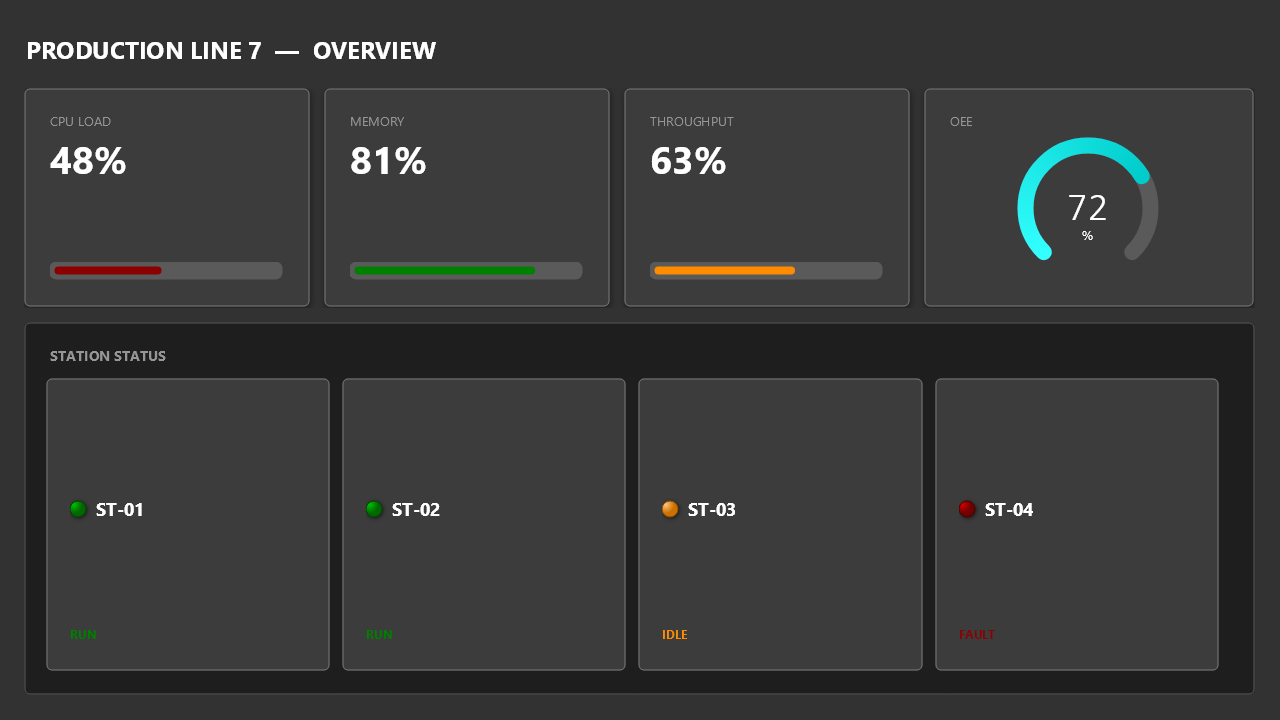
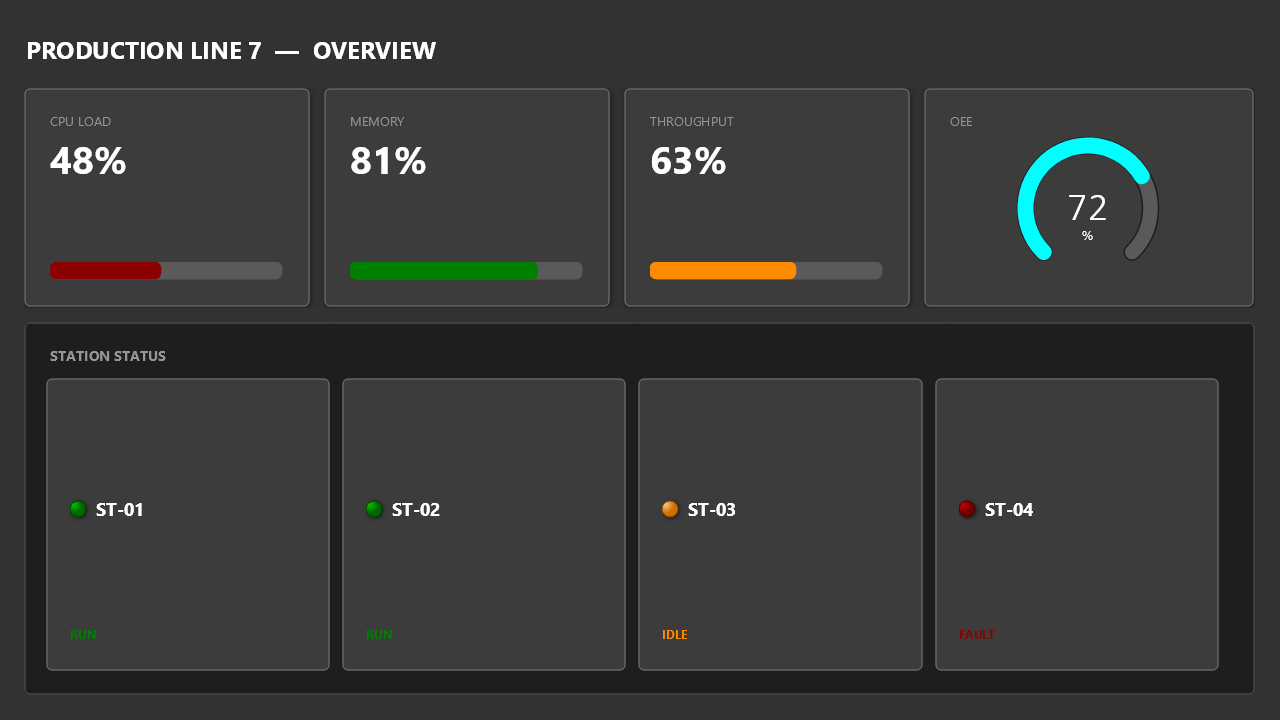
feat(datagrid): configurable border color/width + seam fixes
- Add ColumnTextColor/ColumnBorderColor/BorderColor/BorderWidth properties
- Plumb BorderWidth and border-color helpers through all cell/header draws
- Column/group headers use DrawDivider (per-edge) instead of full box
- Container fills (column/row/scroll) draw border in their own fill color
  to remove the white seam above rows and stray scrollbar-color 1px line
- Guard horizontal/vertical scrollbar boxes by scroll mode

diff --git a/Going.UI/Controls/GoDataGrid.cs b/Going.UI/Controls/GoDataGrid.cs
@@ -66,35 +66,52 @@ namespace Going.UI.Controls
         /// </summary>
         [GoProperty(PCategory.Control, 6)] public string ColumnColor { get; set; } = "Base1";
         /// <summary>
+        /// 컬럼 헤더 텍스트 색상의 테마 색상 이름을 가져오거나 설정합니다.
+        /// </summary>
+        [GoProperty(PCategory.Control, 7)] public string ColumnTextColor { get; set; } = "Fore";
+        /// <summary>
+        /// 컬럼 헤더 테두리 색상의 테마 색상 이름을 가져오거나 설정합니다. 비어 있으면 자동 계산 색상을 사용합니다.
+        /// </summary>
+        [GoProperty(PCategory.Control, 8)] public string? ColumnBorderColor { get; set; }
+        /// <summary>
+        /// 행/요약/디바이더 테두리 색상의 테마 색상 이름을 가져오거나 설정합니다. 비어 있으면 자동 계산 색상을 사용합니다.
+        /// </summary>
+        [GoProperty(PCategory.Control, 9)] public string? BorderColor { get; set; }
+        /// <summary>
         /// 선택된 행의 배경 색상 테마 이름을 가져오거나 설정합니다.
         /// </summary>
-        [GoProperty(PCategory.Control, 7)] public string SelectedRowColor { get; set; } = "Select";
+        [GoProperty(PCategory.Control, 10)] public string SelectedRowColor { get; set; } = "Select";
         /// <summary>
         /// 전체 배경 색상의 테마 색상 이름을 가져오거나 설정합니다.
         /// </summary>
-        [GoProperty(PCategory.Control, 8)] public string BoxColor { get; set; } = "Base2";
+        [GoProperty(PCategory.Control, 11)] public string BoxColor { get; set; } = "Base2";
         /// <summary>
         /// 스크롤바 색상의 테마 색상 이름을 가져오거나 설정합니다.
         /// </summary>
-        [GoProperty(PCategory.Control, 9)] public string ScrollBarColor { get; set; } = "Base1";
+        [GoProperty(PCategory.Control, 12)] public string ScrollBarColor { get; set; } = "Base1";
+
+        /// <summary>
+        /// 테두리 및 디바이더 선 굵기를 가져오거나 설정합니다.
+        /// </summary>
+        [GoProperty(PCategory.Control, 13)] public float BorderWidth { get; set; } = 1F;
 
         /// <summary>
         /// 행 높이(픽셀)를 가져오거나 설정합니다.
         /// </summary>
-        [GoProperty(PCategory.Control, 10)] public float RowHeight { get; set; } = 30F;
+        [GoProperty(PCategory.Control, 14)] public float RowHeight { get; set; } = 30F;
         /// <summary>
         /// 컬럼 헤더 높이(픽셀)를 가져오거나 설정합니다.
         /// </summary>
-        [GoProperty(PCategory.Control, 11)] public float ColumnHeight { get; set; } = 30F;
+        [GoProperty(PCategory.Control, 15)] public float ColumnHeight { get; set; } = 30F;
 
         /// <summary>
         /// 스크롤 모드를 가져오거나 설정합니다.
         /// </summary>
-        [GoProperty(PCategory.Control, 12)] public ScrollMode ScrollMode { get; set; } = ScrollMode.Vertical;
+        [GoProperty(PCategory.Control, 16)] public ScrollMode ScrollMode { get; set; } = ScrollMode.Vertical;
         /// <summary>
         /// 행 선택 모드를 가져오거나 설정합니다.
         /// </summary>
-        [GoProperty(PCategory.Control, 13)] public GoDataGridSelectionMode SelectionMode { get; set; } = GoDataGridSelectionMode.Single;
+        [GoProperty(PCategory.Control, 17)] public GoDataGridSelectionMode SelectionMode { get; set; } = GoDataGridSelectionMode.Single;
 
         /// <summary>
         /// 컬럼 그룹 컬렉션을 가져옵니다.
@@ -104,7 +121,7 @@ namespace Going.UI.Controls
         /// <summary>
         /// 컬럼 컬렉션을 가져옵니다.
         /// </summary>
-        [GoProperty(PCategory.Control, 14)]
+        [GoProperty(PCategory.Control, 18)]
         [GoChildWrappers]
         [JsonObjectCreationHandling(JsonObjectCreationHandling.Populate)]
         public ObservableList<GoDataGridColumn> Columns { get; private set; } = [];
@@ -216,6 +233,14 @@ namespace Going.UI.Controls
         public event Func<GoDataGridCell, bool>? GetComboDropDownVisible;
         #endregion
 
+        #region Internal
+        internal SKColor GetBorderColor(GoTheme thm, SKColor autoColor) =>
+            string.IsNullOrWhiteSpace(BorderColor) ? autoColor : thm.ToColor(BorderColor);
+
+        internal SKColor GetColumnBorderColor(GoTheme thm, SKColor autoColor) =>
+            string.IsNullOrWhiteSpace(ColumnBorderColor) ? autoColor : thm.ToColor(ColumnBorderColor);
+        #endregion
+
         #region Constructor
         /// <summary><see cref="GoDataGrid"/> 클래스의 새 인스턴스를 초기화합니다.</summary>
         public GoDataGrid()
@@ -298,7 +323,7 @@ namespace Going.UI.Controls
                     using (new SKAutoCanvasRestore(canvas))
                     {
 
-                        Util.DrawBox(canvas, rtColumn, cCol, GoRoundType.Rect, thm.Corner);
+                        Util.DrawBox(canvas, rtColumn, cCol, cCol, GoRoundType.Rect, thm.Corner, true, BorderWidth);
                         using (new SKAutoCanvasRestore(canvas))
                         {
                             canvas.ClipRect(new SKRect(cl, rtColumn.Top, cr, rtColumn.Bottom));
@@ -316,8 +341,8 @@ namespace Going.UI.Controls
                             var rtChk = MathTool.MakeRectangle(Util.FromRect(rtColumn.Left, rtColumn.Top, 30, rtColumn.Height), new SKSize(20, 20));
 
                             var cF = cCol.BrightnessTransmit(CheckBoxBright * br);
-                            var cB = cCol.BrightnessTransmit(BorderBright * br);
-                            Util.DrawBox(canvas, rtChk, cF, cB, GoRoundType.Rect, thm.Corner);
+                            var cB = GetColumnBorderColor(thm, cCol.BrightnessTransmit(BorderBright * br));
+                            Util.DrawBox(canvas, rtChk, cF, cB, GoRoundType.Rect, thm.Corner, true, BorderWidth);
                             if (val) Util.DrawIcon(canvas, "fa-check", 12, rtChk, cText);
                         }
 
@@ -346,7 +371,7 @@ namespace Going.UI.Controls
                         }
 
                         var bsel = SelectionMode == GoDataGridSelectionMode.Selector;
-                        p.IsStroke = true; p.StrokeWidth = 1;
+                        p.IsStroke = true; p.StrokeWidth = BorderWidth;
                         p.PathEffect = pe;
                         foreach (var r in SummaryRows)
                         {
@@ -360,7 +385,7 @@ namespace Going.UI.Controls
 
                                 var cF = cSum;
                                 var cV = cF.BrightnessTransmit(r.RowIndex % 2 == 0 ? 0.05F : -0.05F);
-                                var cB = cV.BrightnessTransmit(BorderBright * br);
+                                var cB = GetBorderColor(thm, cV.BrightnessTransmit(BorderBright * br));
 
                                 var rx = Convert.ToInt32(rtSel.Right) + 0.5F;
                                 p.Color = cB;
@@ -373,12 +398,17 @@ namespace Going.UI.Controls
                 }
                 #endregion
                 #region Border
-                Util.DrawBox(canvas, rtColumn, SKColors.Transparent, cCol, GoRoundType.Rect, thm.Corner);
-                if (SummaryRows.Count > 0) Util.DrawBox(canvas, rtSummary, SKColors.Transparent, cSum, GoRoundType.Rect, thm.Corner);
+                p.IsStroke = true;
+                p.StrokeWidth = BorderWidth;
+                p.PathEffect = pe;
+                p.Color = GetColumnBorderColor(thm, cCol);
+                canvas.DrawLine(rtColumn.Left, Convert.ToInt32(rtColumn.Bottom) + 0.5F, rtColumn.Right, Convert.ToInt32(rtColumn.Bottom) + 0.5F, p);
+                p.PathEffect = null;
+                if (SummaryRows.Count > 0) Util.DrawBox(canvas, rtSummary, SKColors.Transparent, GetBorderColor(thm, cSum), GoRoundType.Rect, thm.Corner, true, BorderWidth);
                 #endregion
                 #region Rows
                 {
-                    Util.DrawBox(canvas, rtRow, cBox, cRow, GoRoundType.Rect, thm.Corner);
+                    Util.DrawBox(canvas, rtRow, cBox, cBox, GoRoundType.Rect, thm.Corner, true, BorderWidth);
 
                     using (new SKAutoCanvasRestore(canvas))
                     {
@@ -405,7 +435,7 @@ namespace Going.UI.Controls
                             }
 
                             var bsel = SelectionMode == GoDataGridSelectionMode.Selector;
-                            p.IsStroke = true; p.StrokeWidth = 1;
+                            p.IsStroke = true; p.StrokeWidth = BorderWidth;
                             p.PathEffect = pe;
                             for (int i = si; i <= ei; i++)
                             {
@@ -421,10 +451,10 @@ namespace Going.UI.Controls
 
                                     var cF = r.Selected ? cSel : cRow;
                                     var cV = cF.BrightnessTransmit(r.RowIndex % 2 == 0 ? 0.05F : -0.05F);
-                                    var cB = cV.BrightnessTransmit(BorderBright * br);
+                                    var cB = GetBorderColor(thm, cV.BrightnessTransmit(BorderBright * br));
 
                                     Util.DrawBox(canvas, rtSel, cV, GoRoundType.Rect, thm.Corner);
-                                    Util.DrawBox(canvas, rtChk, cV.BrightnessTransmit(InputBright * br), cB, GoRoundType.Rect, thm.Corner);
+                                    Util.DrawBox(canvas, rtChk, cV.BrightnessTransmit(InputBright * br), cB, GoRoundType.Rect, thm.Corner, true, BorderWidth);
                                     if (r.Selected) Util.DrawIcon(canvas, "fa-check", 12, rtChk, cText);
 
                                     var rx = Convert.ToInt32(rtSel.Right) + 0.5F;
@@ -440,7 +470,8 @@ namespace Going.UI.Controls
                 }
                 #endregion
                 #region Scroll
-                Util.DrawBox(canvas, rtScrollV, cVScroll, GoRoundType.Rect, thm.Corner);
+                if (usv) Util.DrawBox(canvas, rtScrollV, cVScroll, GoRoundType.Rect, thm.Corner);
+                if (ush) Util.DrawBox(canvas, rtScrollH, cVScroll, GoRoundType.Rect, thm.Corner);
                 #endregion
 
                 hscroll.Draw(canvas, thm, rtScrollH);

diff --git a/Going.UI/Datas/GoDataGridItems.cs b/Going.UI/Datas/GoDataGridItems.cs
@@ -148,12 +148,12 @@ namespace Going.UI.Datas
                 var cSel = thm.ToColor(SelectedCellBackColor ?? Grid.SelectedRowColor);
                 var cF = Row.Selected ? cSel : cBack;
                 var cV = cF.BrightnessTransmit(RowIndex % 2 == 0 ? 0.05F : -0.05F);
-                var cB = cV.BrightnessTransmit(thm.Dark ? GoDataGrid.BorderBright : -GoDataGrid.BorderBright);
+                var cB = Grid.GetBorderColor(thm, cV.BrightnessTransmit(thm.Dark ? GoDataGrid.BorderBright : -GoDataGrid.BorderBright));
                 
                 Util.DrawBox(canvas, Bounds, cV, GoRoundType.Rect, thm.Corner);
 
                 using var pe = SKPathEffect.CreateDash([2, 2,], 3);
-                using var p = new SKPaint { IsAntialias = true, IsStroke = true, StrokeWidth = 1, Color = cB, PathEffect = pe };
+                using var p = new SKPaint { IsAntialias = true, IsStroke = true, StrokeWidth = Grid.BorderWidth, Color = cB, PathEffect = pe };
                 var l = Convert.ToInt32(Bounds.Left) + 0.5F;
                 var r = Convert.ToInt32(Bounds.Right) + 0.5F;
                 var ci = ColumnIndex;
@@ -309,24 +309,29 @@ namespace Going.UI.Datas
         {
             if (Grid != null)
             {
-                var cText = thm.ToColor(TextColor ?? Grid.TextColor);
+                var cText = thm.ToColor(TextColor ?? Grid.ColumnTextColor);
                 var cBack = thm.ToColor(Grid.ColumnColor);
-                var cBorder = cBack.BrightnessTransmit(thm.Dark ? GoDataGrid.BorderBright : -GoDataGrid.BorderBright);
+                var cBorder = Grid.GetColumnBorderColor(thm, cBack.BrightnessTransmit(thm.Dark ? GoDataGrid.BorderBright : -GoDataGrid.BorderBright));
                 var cIF = cBack.BrightnessTransmit(thm.Dark ? GoDataGrid.InputBright : -GoDataGrid.InputBright);
                 var cIB = GoInputEventer.Current.InputControl == Grid && Grid.InputObject == this ? thm.Highlight : cBorder;
                 var isCol = Grid.Columns.Contains(this);
+                var isGroup = Grid.ColumnGroups.Contains(this);
+                var dividerIndex = isCol ? Grid.Columns.IndexOf(this) : isGroup ? Grid.ColumnGroups.IndexOf(this) : -1;
+                var dividerCount = isCol ? Grid.Columns.Count : isGroup ? Grid.ColumnGroups.Count : 0;
                 var (rtText, rtSort) = bounds();
 
-                Util.DrawBox(canvas, Bounds, SKColors.Transparent, cBorder, GoRoundType.Rect, thm.Corner);
+                using var pe = SKPathEffect.CreateDash([2, 2,], 3);
+                using var p = new SKPaint { IsAntialias = true, IsStroke = true, StrokeWidth = Grid.BorderWidth, Color = cBorder, PathEffect = pe };
+                DrawDivider(canvas, Bounds, p, dividerIndex > 0, dividerIndex >= 0 && dividerIndex < dividerCount - 1);
                 Util.DrawText(canvas, HeaderText, Grid.FontName, Grid.FontStyle, Grid.FontSize, rtText, cText);
 
                 if (isCol)
                 {
-                    if (FilterBounds.Height > 0) Util.DrawBox(canvas, FilterBounds, SKColors.Transparent, cBorder, GoRoundType.Rect, thm.Corner);
+                    if (FilterBounds.Height > 0) DrawDivider(canvas, FilterBounds, p, dividerIndex > 0, dividerIndex >= 0 && dividerIndex < dividerCount - 1);
                     if (UseFilter)
                     {
                         var rt = FilterBounds; rt.Inflate(InputInflateW, InputInflateH);
-                        Util.DrawBox(canvas, rt, cIF, cIB, GoRoundType.Rect, thm.Corner);
+                        Util.DrawBox(canvas, rt, cIF, cIB, GoRoundType.Rect, thm.Corner, true, Grid.BorderWidth);
                         Util.DrawText(canvas, FilterText, Grid.FontName, Grid.FontStyle, Grid.FontSize, rt, cText);
                     }
 
@@ -341,6 +346,14 @@ namespace Going.UI.Datas
 
                 OnDraw(canvas);
             }
+        }
+
+        void DrawDivider(SKCanvas canvas, SKRect bounds, SKPaint p, bool left, bool right)
+        {
+            var l = Convert.ToInt32(bounds.Left) + 0.5F;
+            var r = Convert.ToInt32(bounds.Right) + 0.5F;
+            if (left) canvas.DrawLine(l, bounds.Top, l, bounds.Bottom, p);
+            if (right) canvas.DrawLine(r, bounds.Top, r, bounds.Bottom, p);
         }
         #endregion
 
@@ -540,11 +553,11 @@ namespace Going.UI.Datas
                 var cBack = thm.ToColor(CellBackColor ?? Grid.SummaryRowColor);
                 var cF = cBack;
                 var cV = cF;
-                var cB = cV.BrightnessTransmit(thm.Dark ? GoDataGrid.BorderBright : -GoDataGrid.BorderBright);
+                var cB = Grid.GetBorderColor(thm, cV.BrightnessTransmit(thm.Dark ? GoDataGrid.BorderBright : -GoDataGrid.BorderBright));
 
                 Util.DrawBox(canvas, Bounds, cV, GoRoundType.Rect, thm.Corner);
 
-                using var p = new SKPaint { IsAntialias = true, IsStroke = true, StrokeWidth = 1, Color = cB };
+                using var p = new SKPaint { IsAntialias = true, IsStroke = true, StrokeWidth = Grid.BorderWidth, Color = cB };
                 var l = Convert.ToInt32(Bounds.Left) + 0.5F;
                 var r = Convert.ToInt32(Bounds.Right) + 0.5F;
                 canvas.DrawLine(l, Bounds.Top, l, Bounds.Bottom, p);
@@ -1096,11 +1109,11 @@ namespace Going.UI.Datas
             var cSel = thm.ToColor(SelectedCellBackColor ?? Grid.SelectedRowColor);
             var cF = Row.Selected ? cSel : cRow;
             var cV = cF.BrightnessTransmit(Row.RowIndex % 2 == 0 ? 0.05F : -0.05F);
-            var cB = cV.BrightnessTransmit(GoDataGrid.BorderBright * br);
+            var cB = Grid.GetBorderColor(thm, cV.BrightnessTransmit(GoDataGrid.BorderBright * br));
 
             var rtChk = MathTool.MakeRectangle(Bounds, new SKSize(20, 20));
 
-            Util.DrawBox(canvas, rtChk, cV.BrightnessTransmit(GoDataGrid.InputBright * br), cB, GoRoundType.Rect, thm.Corner);
+            Util.DrawBox(canvas, rtChk, cV.BrightnessTransmit(GoDataGrid.InputBright * br), cB, GoRoundType.Rect, thm.Corner, true, Grid.BorderWidth);
             if (Value is bool v && v) Util.DrawIcon(canvas, "fa-check", 12, rtChk, cText);
         }
         #endregion
@@ -1179,10 +1192,10 @@ namespace Going.UI.Datas
             var cSel = thm.ToColor(SelectedCellBackColor ?? Grid.SelectedRowColor);
             var cF = Row.Selected ? cSel : cRow;
             var cV = cF.BrightnessTransmit(Row.RowIndex % 2 == 0 ? 0.05F : -0.05F);
-            var cB = GoInputEventer.Current.InputControl == Grid && Grid.InputObject == this ? thm.Highlight : cV.BrightnessTransmit(GoDataGrid.BorderBright * br);
+            var cB = GoInputEventer.Current.InputControl == Grid && Grid.InputObject == this ? thm.Highlight : Grid.GetBorderColor(thm, cV.BrightnessTransmit(GoDataGrid.BorderBright * br));
 
             var rt = Bounds; rt.Inflate(InputInflateW, InputInflateH);
-            Util.DrawBox(canvas, rt, cV.BrightnessTransmit(GoDataGrid.InputBright * br), cB, GoRoundType.Rect, thm.Corner);
+            Util.DrawBox(canvas, rt, cV.BrightnessTransmit(GoDataGrid.InputBright * br), cB, GoRoundType.Rect, thm.Corner, true, Grid.BorderWidth);
 
             if (!(Grid._InputModeInvisibleText_ && Grid.InputObject == this))
             {
@@ -1269,12 +1282,12 @@ namespace Going.UI.Datas
             var cSel = thm.ToColor(SelectedCellBackColor ?? Grid.SelectedRowColor);
             var cF = Row.Selected ? cSel : cRow;
             var cV = cF.BrightnessTransmit(Row.RowIndex % 2 == 0 ? 0.05F : -0.05F);
-            var cB = GoInputEventer.Current.InputControl == Grid && Grid.InputObject == this ? thm.Highlight : cV.BrightnessTransmit(GoDataGrid.BorderBright * br);
+            var cB = GoInputEventer.Current.InputControl == Grid && Grid.InputObject == this ? thm.Highlight : Grid.GetBorderColor(thm, cV.BrightnessTransmit(GoDataGrid.BorderBright * br));
 
             var rt = Bounds; rt.Inflate(InputInflateW, InputInflateH);
             if (Convert.ToInt32(rt.Right) + 0.5F == Bounds.Right) rt.Right -= 1;
 
-            Util.DrawBox(canvas, rt, cV.BrightnessTransmit(GoDataGrid.InputBright * br), cB, GoRoundType.Rect, thm.Corner);
+            Util.DrawBox(canvas, rt, cV.BrightnessTransmit(GoDataGrid.InputBright * br), cB, GoRoundType.Rect, thm.Corner, true, Grid.BorderWidth);
 
             if (!(Grid._InputModeInvisibleText_ && Grid.InputObject == this))
             {
@@ -1361,13 +1374,13 @@ namespace Going.UI.Datas
             var cSel = thm.ToColor(SelectedCellBackColor ?? Grid.SelectedRowColor);
             var cF = Row.Selected ? cSel : cRow;
             var cV = cF.BrightnessTransmit(Row.RowIndex % 2 == 0 ? 0.05F : -0.05F);
-            var cB = GoInputEventer.Current.InputControl == Grid && Grid.InputObject == this ? thm.Highlight : cV.BrightnessTransmit(GoDataGrid.BorderBright * br);
+            var cB = GoInputEventer.Current.InputControl == Grid && Grid.InputObject == this ? thm.Highlight : Grid.GetBorderColor(thm, cV.BrightnessTransmit(GoDataGrid.BorderBright * br));
 
             var rt = Bounds; rt.Inflate(InputInflateW, InputInflateH);
             var rts = Util.Columns(rt, ["50%", "50%"]);
             var rtOff = rts[0];
             var rtOn = rts[1];
-            Util.DrawBox(canvas, rt, cV.BrightnessTransmit(GoDataGrid.InputBright * br), cB, GoRoundType.Rect, thm.Corner);
+            Util.DrawBox(canvas, rt, cV.BrightnessTransmit(GoDataGrid.InputBright * br), cB, GoRoundType.Rect, thm.Corner, true, Grid.BorderWidth);
 
             if (Value is bool v)
             {
@@ -1378,7 +1391,7 @@ namespace Going.UI.Datas
 
                 using var p = new SKPaint { IsAntialias = false };
                 using var pe = SKPathEffect.CreateDash([2, 2], 2);
-                p.StrokeWidth = 1;
+                p.StrokeWidth = Grid.BorderWidth;
                 p.IsStroke = false;
                 p.Color = Util.FromArgb(128, cB);
                 p.PathEffect = pe;
@@ -1474,10 +1487,10 @@ namespace Going.UI.Datas
             var cSel = thm.ToColor(SelectedCellBackColor ?? Grid.SelectedRowColor);
             var cF = Row.Selected ? cSel : cRow;
             var cV = cF.BrightnessTransmit(Row.RowIndex % 2 == 0 ? 0.05F : -0.05F);
-            var cB = dwndVisible ? thm.Highlight : cV.BrightnessTransmit(GoDataGrid.BorderBright * br);
+            var cB = dwndVisible ? thm.Highlight : Grid.GetBorderColor(thm, cV.BrightnessTransmit(GoDataGrid.BorderBright * br));
 
             var rt = Bounds; rt.Inflate(InputInflateW, InputInflateH);
-            Util.DrawBox(canvas, rt, cV.BrightnessTransmit(GoDataGrid.InputBright * br), cB, GoRoundType.Rect, thm.Corner);
+            Util.DrawBox(canvas, rt, cV.BrightnessTransmit(GoDataGrid.InputBright * br), cB, GoRoundType.Rect, thm.Corner, true, Grid.BorderWidth);
 
             var (rtText, rtArrow) = bounds(rt);
 
@@ -1496,7 +1509,7 @@ namespace Going.UI.Datas
             #region sep
             using var p = new SKPaint { IsAntialias = false };
             using var pe = SKPathEffect.CreateDash([2, 2], 2);
-            p.StrokeWidth = 1;
+            p.StrokeWidth = Grid.BorderWidth;
             p.IsStroke = false;
             p.Color = Util.FromArgb(128, cB);
             p.PathEffect = pe;
@@ -1610,10 +1623,10 @@ namespace Going.UI.Datas
             var cSel = thm.ToColor(SelectedCellBackColor ?? Grid.SelectedRowColor);
             var cF = Row.Selected ? cSel : cRow;
             var cV = cF.BrightnessTransmit(Row.RowIndex % 2 == 0 ? 0.05F : -0.05F);
-            var cB = dwndVisible ? thm.Highlight : cV.BrightnessTransmit(GoDataGrid.BorderBright * br);
+            var cB = dwndVisible ? thm.Highlight : Grid.GetBorderColor(thm, cV.BrightnessTransmit(GoDataGrid.BorderBright * br));
 
             var rt = Bounds; rt.Inflate(InputInflateW, InputInflateH);
-            Util.DrawBox(canvas, rt, cV.BrightnessTransmit(GoDataGrid.InputBright * br), cB, GoRoundType.Rect, thm.Corner);
+            Util.DrawBox(canvas, rt, cV.BrightnessTransmit(GoDataGrid.InputBright * br), cB, GoRoundType.Rect, thm.Corner, true, Grid.BorderWidth);
 
             var (rtText, rtArrow) = bounds(rt);
 
@@ -1632,7 +1645,7 @@ namespace Going.UI.Datas
             #region sep
             using var p = new SKPaint { IsAntialias = false };
             using var pe = SKPathEffect.CreateDash([2, 2], 2);
-            p.StrokeWidth = 1;
+            p.StrokeWidth = Grid.BorderWidth;
             p.IsStroke = false;
             p.Color = Util.FromArgb(128, cB);
             p.PathEffect = pe;
@@ -1732,10 +1745,10 @@ namespace Going.UI.Datas
             var cSel = thm.ToColor(SelectedCellBackColor ?? Grid.SelectedRowColor);
             var cF = Row.Selected ? cSel : cRow;
             var cV = cF.BrightnessTransmit(Row.RowIndex % 2 == 0 ? 0.05F : -0.05F);
-            var cB = dwndVisible ? thm.Highlight : cV.BrightnessTransmit(GoDataGrid.BorderBright * br);
+            var cB = dwndVisible ? thm.Highlight : Grid.GetBorderColor(thm, cV.BrightnessTransmit(GoDataGrid.BorderBright * br));
 
             var rt = Bounds; rt.Inflate(InputInflateW, InputInflateH);
-            Util.DrawBox(canvas, rt, cV.BrightnessTransmit(GoDataGrid.InputBright * br), cB, GoRoundType.Rect, thm.Corner);
+            Util.DrawBox(canvas, rt, cV.BrightnessTransmit(GoDataGrid.InputBright * br), cB, GoRoundType.Rect, thm.Corner, true, Grid.BorderWidth);
 
             var (rtText, rtArrow) = bounds(rt);
             #region Text
@@ -1748,7 +1761,7 @@ namespace Going.UI.Datas
             #region sep
             using var p = new SKPaint { IsAntialias = false };
             using var pe = SKPathEffect.CreateDash([2, 2], 2);
-            p.StrokeWidth = 1;
+            p.StrokeWidth = Grid.BorderWidth;
             p.IsStroke = false;
             p.Color = Util.FromArgb(128, cB);
             p.PathEffect = pe;